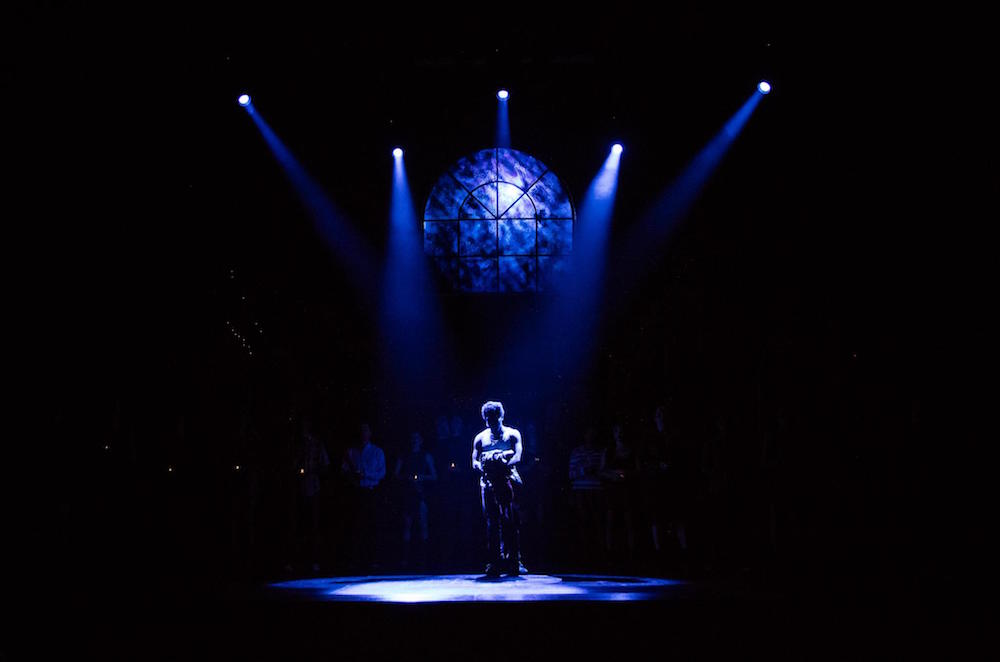
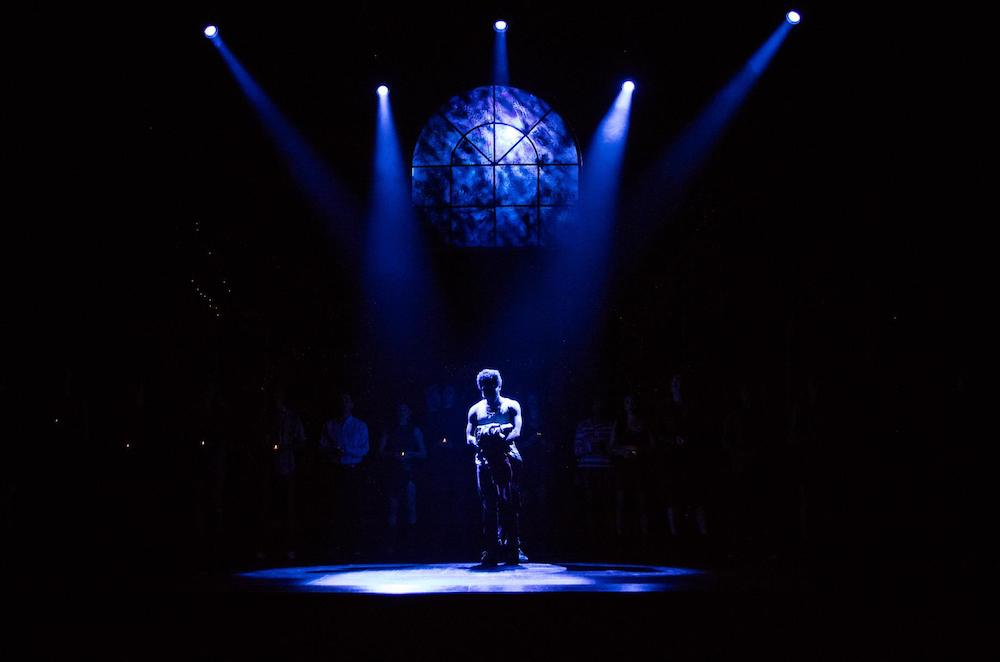
changed title picture, added video wall video

diff --git a/index.html b/index.html
@@ -481,10 +481,13 @@
                                 </div>
                                 <div class="row">
 
-                                    <div class="col-md-5 text-center">
-                                        <iframe src="https://www.facebook.com/plugins/video.php?href=https%3A%2F%2Fwww.facebook.com%2FStanfordTAPS%2Fvideos%2F10154322215732702%2F&show_text=0&width=400" width="400" height="400" style="border:none;overflow:hidden" scrolling="no" frameborder="0" allowTransparency="true" allowFullScreen="true"></iframe>
+                                    <div class="col-lg-5 col-md-5 text-center">
+                                        <iframe width="485" height="485" src="https://www.facebook.com/plugins/video.php?href=https%3A%2F%2Fwww.facebook.com%2FStanfordTAPS%2Fvideos%2F10154322215732702%2F&show_text=0&width=400" style="border:none;overflow:hidden" scrolling="no" frameborder="0" allowTransparency="true" allowFullScreen="true"></iframe>
                                     </div>
                                     <div class="col-md-7">
+                                        <iframe width="560" height="410" src="https://www.youtube.com/embed/vL1DLb_UfEY" frameborder="0" allowfullscreen></iframe>
+                                    </div>
+                                    <div class="col-md-12">
                                         <img src="images/portfolio/video_wall/video_wall_2.jpg" class="img-responsive" alt="..">
                                     </div>
 
